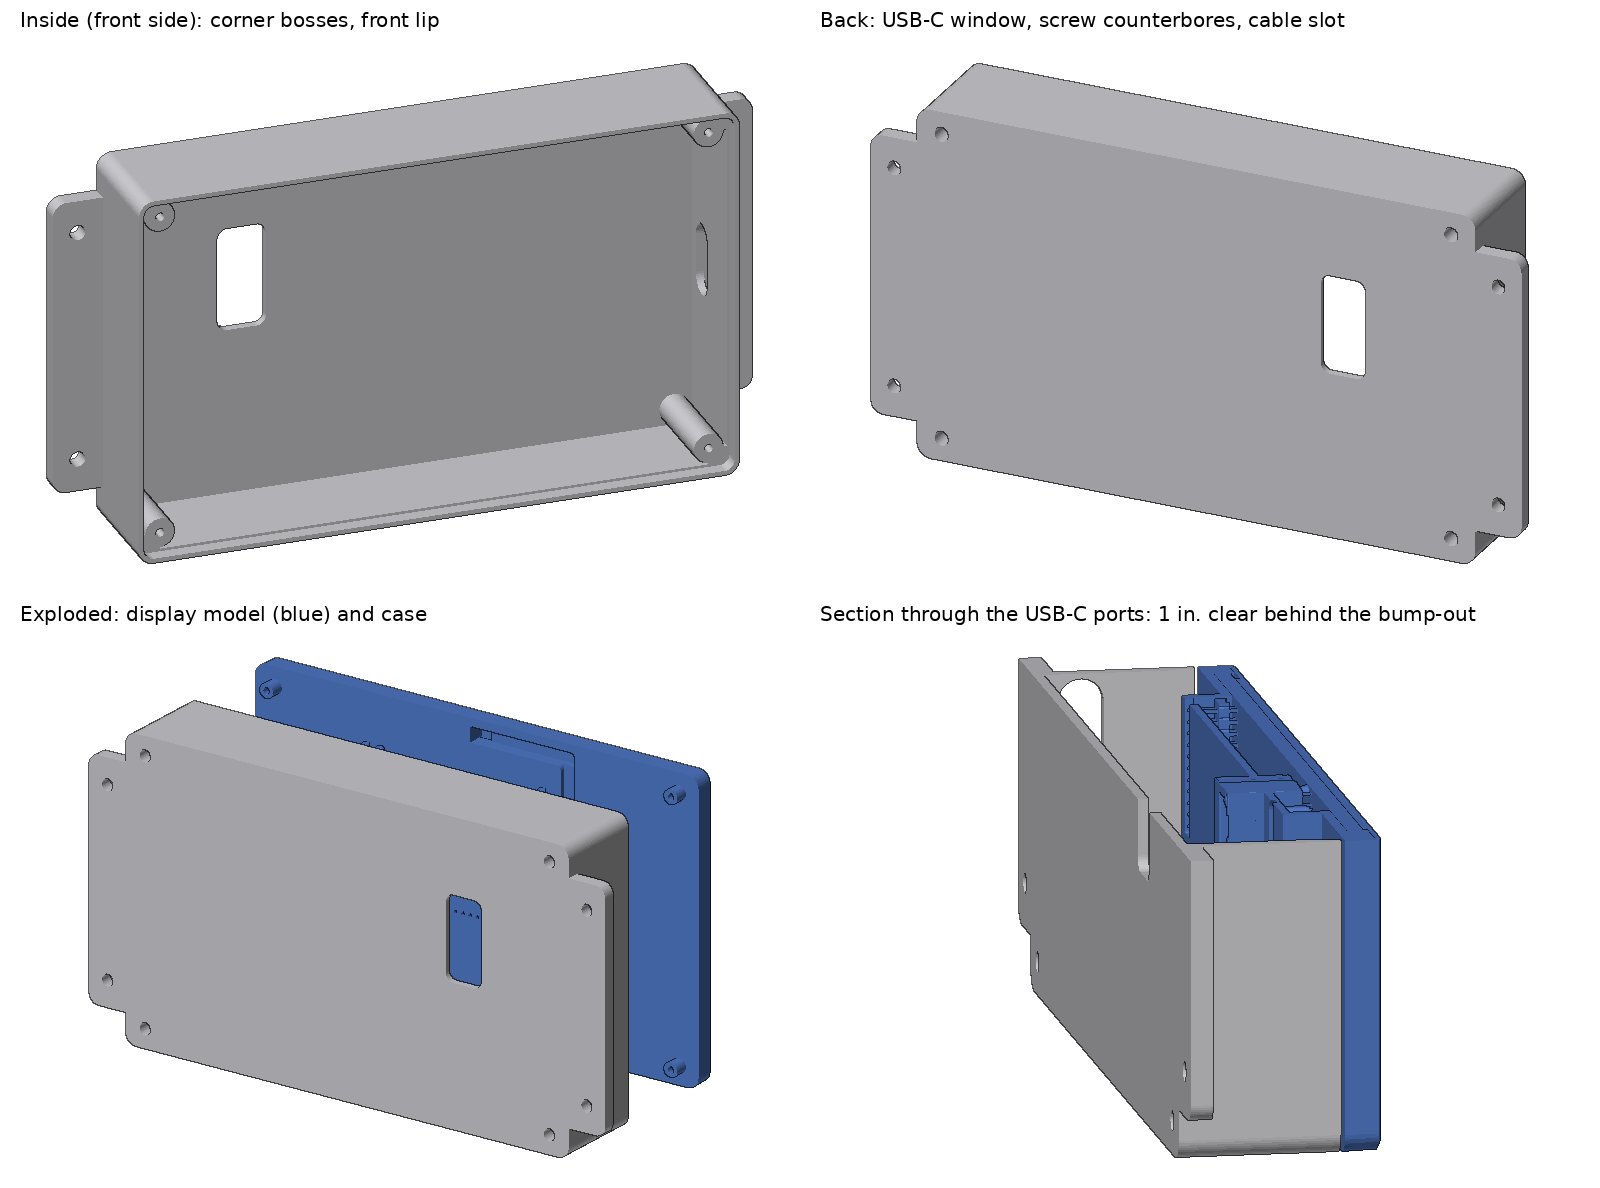
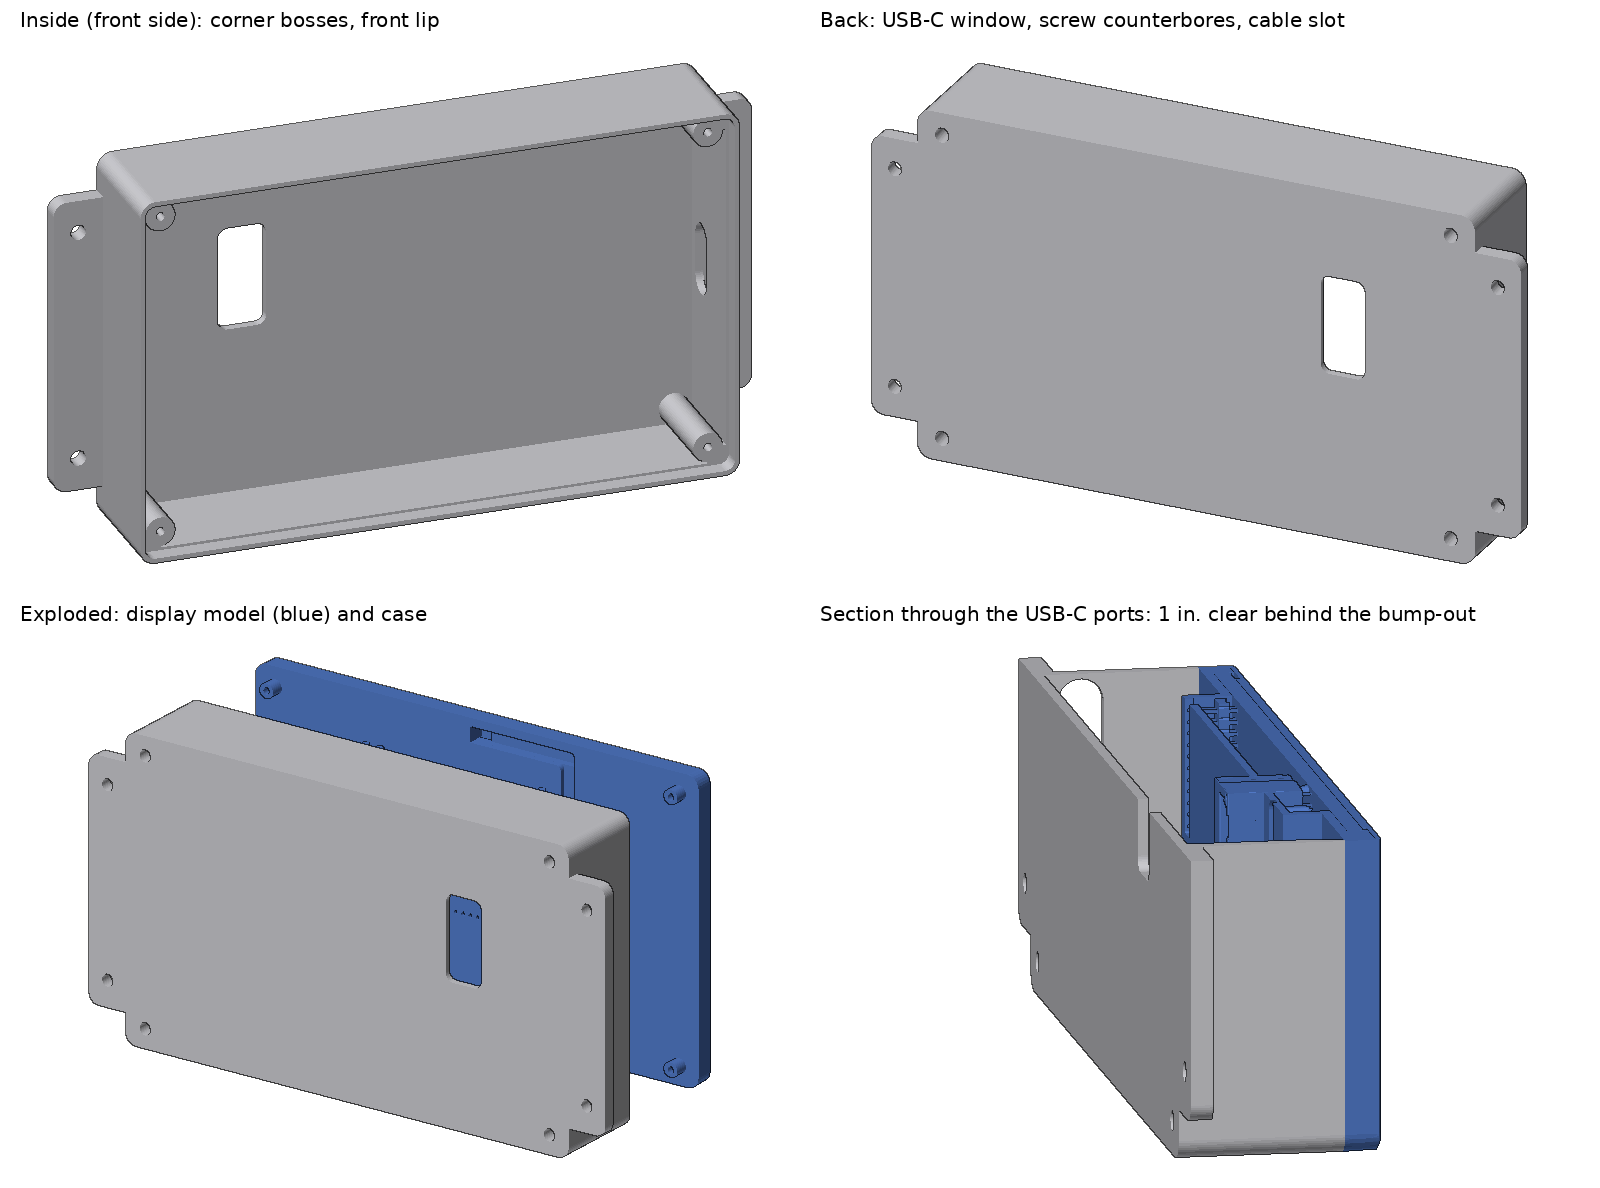
display_case: close the gap between the front lip and the bezel
Claude-Session: https://claude.ai/code/session_015z7NxgrAUqAEn3yMJYwzx7

Changed region(s): [[0.0625, 0.436, 0.0938, 0.4672]]

diff --git a/hardware/display_case/display_case.py b/hardware/display_case/display_case.py
@@ -101,7 +101,7 @@ class CaseParams:
     # bezel edge and ends flush with the glass front.
     lip: bool = True
     lip_thk: float = 1.6
-    lip_gap_to_bezel: float = 0.8      # flush case: air gap left before the bezel's back face
+    lip_gap_to_bezel: float = 0.0      # flush case: gap left before the bezel's back face (0 = lip touches it)
     wrap_clearance: float = 0.4        # overhang case: gap round the glass edge
     # Mounting screws, from the back into the display standoffs (M2, confirmed).
     hole_d: float = 2.4                # M2 clearance

diff --git a/hardware/display_case/README.md b/hardware/display_case/README.md
@@ -28,16 +28,17 @@ python render_preview.py
 
 ## What the case has
 
-- Overall 211.80 x 113.72 x 35.4 mm with the default settings (181.80 wide
-  without the tabs): 31.2 mm behind the standoff plane plus a 4.2 mm lip
+- Overall 211.80 x 113.72 x 36.2 mm with the default settings (181.80 wide
+  without the tabs): 31.2 mm behind the standoff plane plus a 5.0 mm lip
   forward of it. Display plus case is about 44 mm deep.
 - Four corner bosses at 166.00 x 99.00 mm, tied into the corner walls. A 2.4 mm
   M2 through hole with a 4.6 mm counterbore from the back, leaving a 4 mm
   floor. An M2 x 8 screw from the back then has about 4 mm in the standoff. A
   long screwdriver reaches down the counterbore.
 - Front lip, 1.6 mm thick, that carries the wall forward from the standoff
-  tops to 0.8 mm short of the back face of the plastic bezel, so the edge gap
-  is closed. With `--overhang` of 2 mm or more the lip instead wraps the bezel
+  tops to the back face of the plastic bezel (5 mm), so the case meets the
+  bezel with no gap. If a print comes out long and the case rocks, set
+  `lip_gap_to_bezel` to 0.3. With `--overhang` of 2 mm or more the lip instead wraps the bezel
   and ends flush with the glass front.
 - Mounting tabs on the left and right: 5 mm thick, 15 mm out from the wall,
   91 mm long (80% of the case height), flush with the back face, each with
